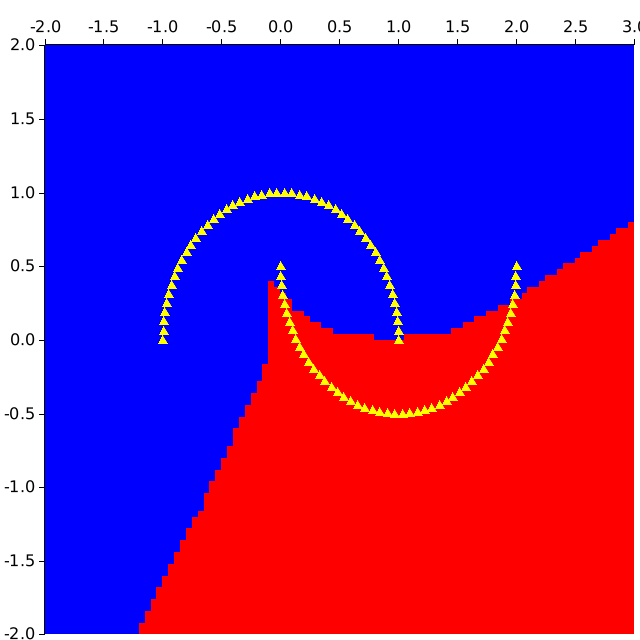
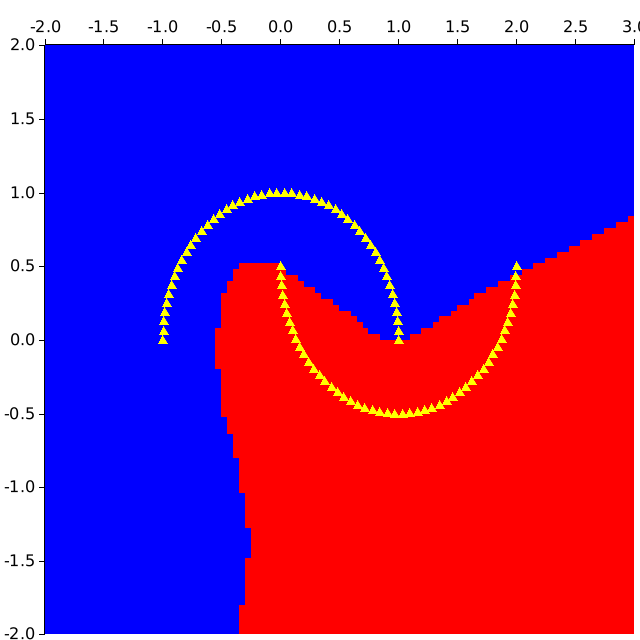
Increase iterations and decrease learning rate

Changed region(s): [[0.2188, 0.4062, 0.5938, 1.0], [0.6562, 0.3438, 1.0, 0.5312]]

diff --git a/examples/moons.rs b/examples/moons.rs
@@ -48,7 +48,7 @@ fn loss(x_data: &Array<f64, Ix2>, y_labels: &Array<f64, Ix1>, model: &MLP) -> (V
     let data_loss = losses.into_iter().sum::<Value>() / losses_len;
 
     // L2 regularization
-    let alpha = 1E-4;
+    let alpha = 1E-5;
     let reg_loss = alpha * model.parameters().map(|p| p * p).sum::<Value>();
     let total_loss = data_loss + reg_loss;
 
@@ -155,7 +155,7 @@ fn visualize_results(
 
 fn main() -> Result<(), Box<dyn std::error::Error>> {
     let n_samples = 100;
-    let n_opt_steps = 10;
+    let n_opt_steps = 30;
     let mut model = mikrograd::new_mlp(2, &[16, 16, 1]);
 
     println!("{}", model);
